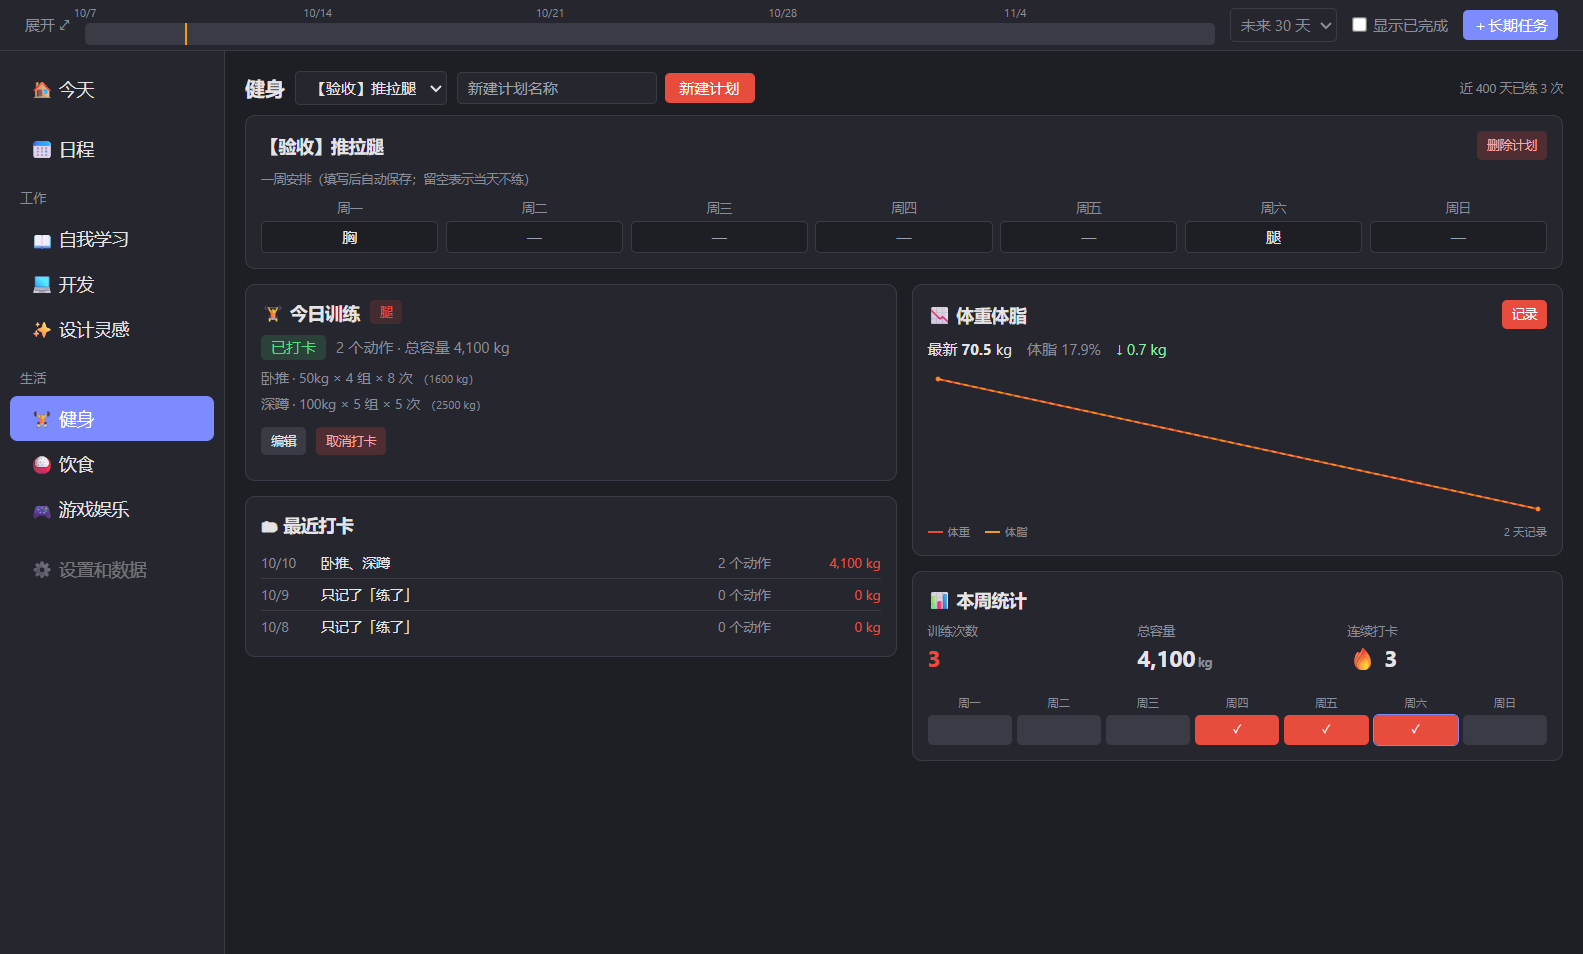
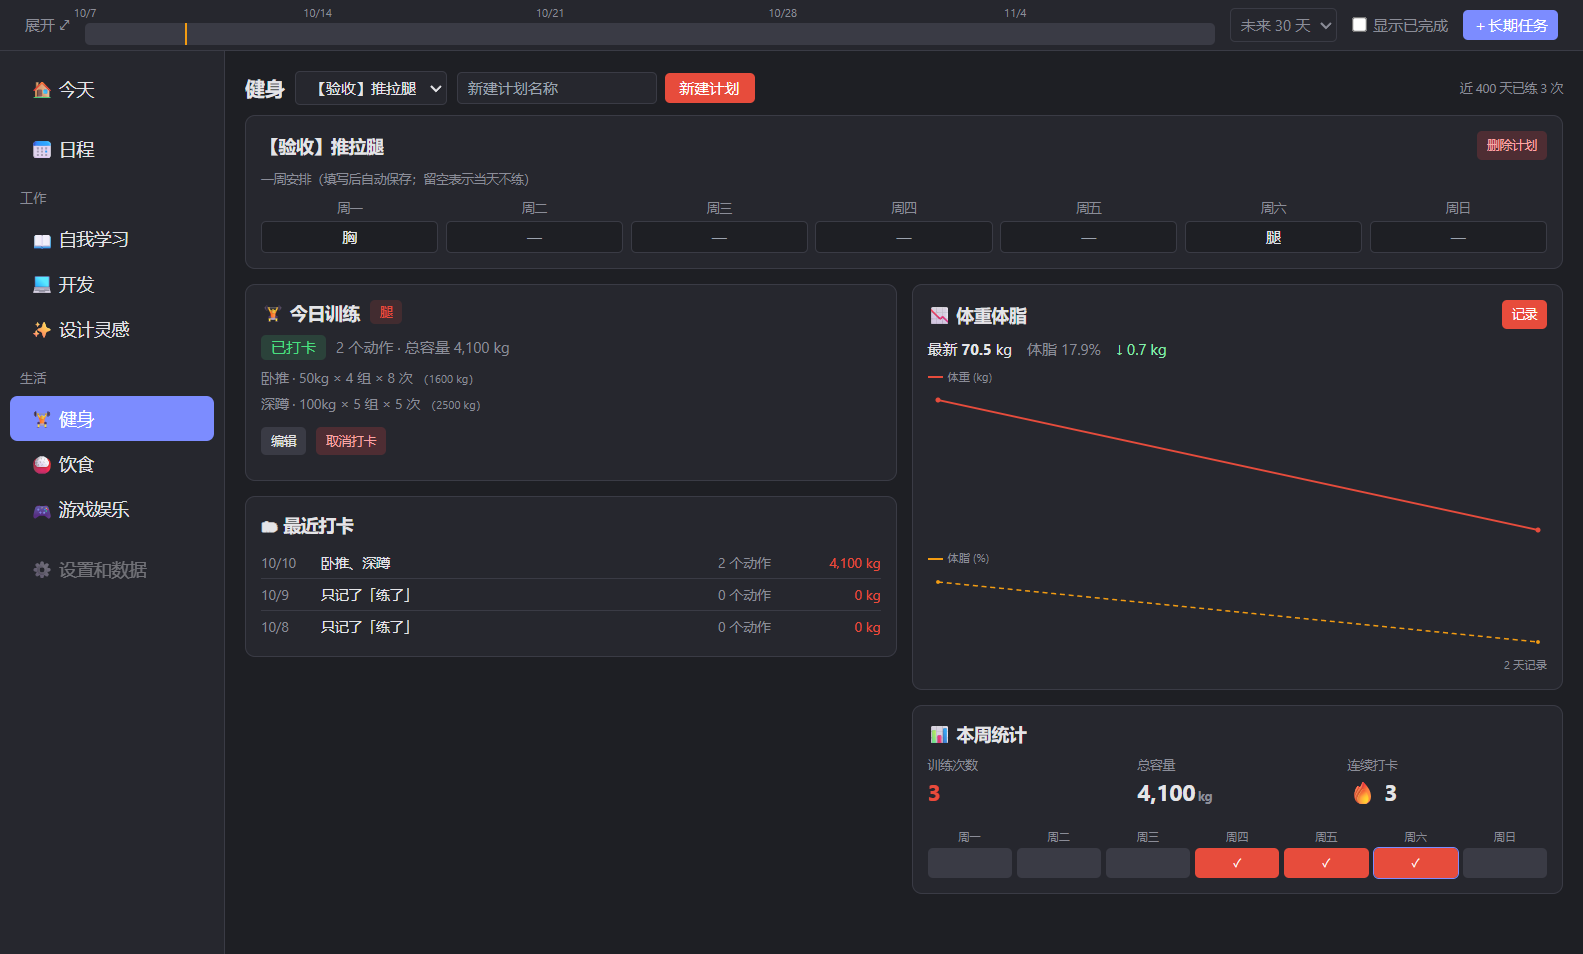
feat(健身): 体脂改下方独立迷你图（与体重分图，共享 X 轴）

diff --git a/src/renderer/src/components/fitness/BodyTrend.tsx b/src/renderer/src/components/fitness/BodyTrend.tsx
@@ -5,6 +5,7 @@ import { useFitnessStore } from '../../stores/fitnessStore'
 import { todayStr } from '@shared/dates'
 
 const H = 120
+const FAT_H = 64
 const PAD = 8
 const WEIGHT_COLOR = '#e74c3c'
 const FAT_COLOR = '#f39c12'
@@ -37,7 +38,7 @@ export function BodyTrend(): JSX.Element {
 
   const weightPts = toSvgPoints(metrics.map((m) => ({ date: m.date, value: m.weight })), chartW, H, PAD)
   const fatRows = metrics.filter((m) => m.body_fat !== null)
-  const fatPts = toSvgPoints(fatRows.map((m) => ({ date: m.date, value: m.body_fat as number })), chartW, H, PAD)
+  const fatPts = toSvgPoints(fatRows.map((m) => ({ date: m.date, value: m.body_fat as number })), chartW, FAT_H, PAD)
 
   const openDialog = (): void => {
     setDate(todayStr())
@@ -78,39 +79,46 @@ export function BodyTrend(): JSX.Element {
         </div>
       )}
 
-      <div ref={boxRef}>
+      <div ref={boxRef} data-chart-box="true">
       {metrics.length < 2 ? (
         <div className="text-[10px] text-[var(--muted)] py-6 text-center">
           至少记录两天才能画出趋势（当前 {metrics.length} 天）
         </div>
       ) : (
-        <svg width={chartW} height={H} viewBox={`0 0 ${chartW} ${H}`} className="block" data-chart="body">
-          <path d={linePath(weightPts)} fill="none" stroke={WEIGHT_COLOR} strokeWidth={1.5} />
-          {weightPts.map((p, i) => (
-            <circle key={i} cx={p.x} cy={p.y} r={2} fill={WEIGHT_COLOR} />
-          ))}
+        <>
+          <div className="flex items-center gap-2 mb-1 text-[9px] text-[var(--muted)]">
+            <span className="flex items-center gap-1">
+              <span className="inline-block w-3 h-0.5" style={{ background: WEIGHT_COLOR }} /> 体重 (kg)
+            </span>
+          </div>
+          <svg width={chartW} height={H} viewBox={`0 0 ${chartW} ${H}`} className="block" data-chart="body-weight">
+            <path d={linePath(weightPts)} fill="none" stroke={WEIGHT_COLOR} strokeWidth={1.5} />
+            {weightPts.map((p, i) => (
+              <circle key={i} cx={p.x} cy={p.y} r={2} fill={WEIGHT_COLOR} />
+            ))}
+          </svg>
+
           {fatPts.length >= 2 && (
             <>
-              <path d={linePath(fatPts)} fill="none" stroke={FAT_COLOR} strokeWidth={1.2} strokeDasharray="4 3" />
-              {fatPts.map((p, i) => (
-                <circle key={`f${i}`} cx={p.x} cy={p.y} r={1.5} fill={FAT_COLOR} />
-              ))}
+              <div className="flex items-center gap-2 mt-2 mb-1 text-[9px] text-[var(--muted)]">
+                <span className="flex items-center gap-1">
+                  <span className="inline-block w-3 h-0.5" style={{ background: FAT_COLOR }} /> 体脂 (%)
+                </span>
+              </div>
+              <svg width={chartW} height={FAT_H} viewBox={`0 0 ${chartW} ${FAT_H}`} className="block" data-chart="body-fat">
+                <path d={linePath(fatPts)} fill="none" stroke={FAT_COLOR} strokeWidth={1.2} strokeDasharray="4 3" />
+                {fatPts.map((p, i) => (
+                  <circle key={`f${i}`} cx={p.x} cy={p.y} r={1.5} fill={FAT_COLOR} />
+                ))}
+              </svg>
             </>
           )}
-        </svg>
+        </>
       )}
       </div>
 
-      <div className="mt-1 flex items-center gap-3 text-[9px] text-[var(--muted)]">
-        <span className="flex items-center gap-1">
-          <span className="inline-block w-3 h-0.5" style={{ background: WEIGHT_COLOR }} /> 体重
-        </span>
-        {fatPts.length >= 2 && (
-          <span className="flex items-center gap-1">
-            <span className="inline-block w-3 h-0.5" style={{ background: FAT_COLOR }} /> 体脂
-          </span>
-        )}
-        <span className="ml-auto">{metrics.length} 天记录</span>
+      <div className="mt-1 flex items-center justify-end text-[9px] text-[var(--muted)]">
+        <span>{metrics.length} 天记录</span>
       </div>
 
       {open && (
